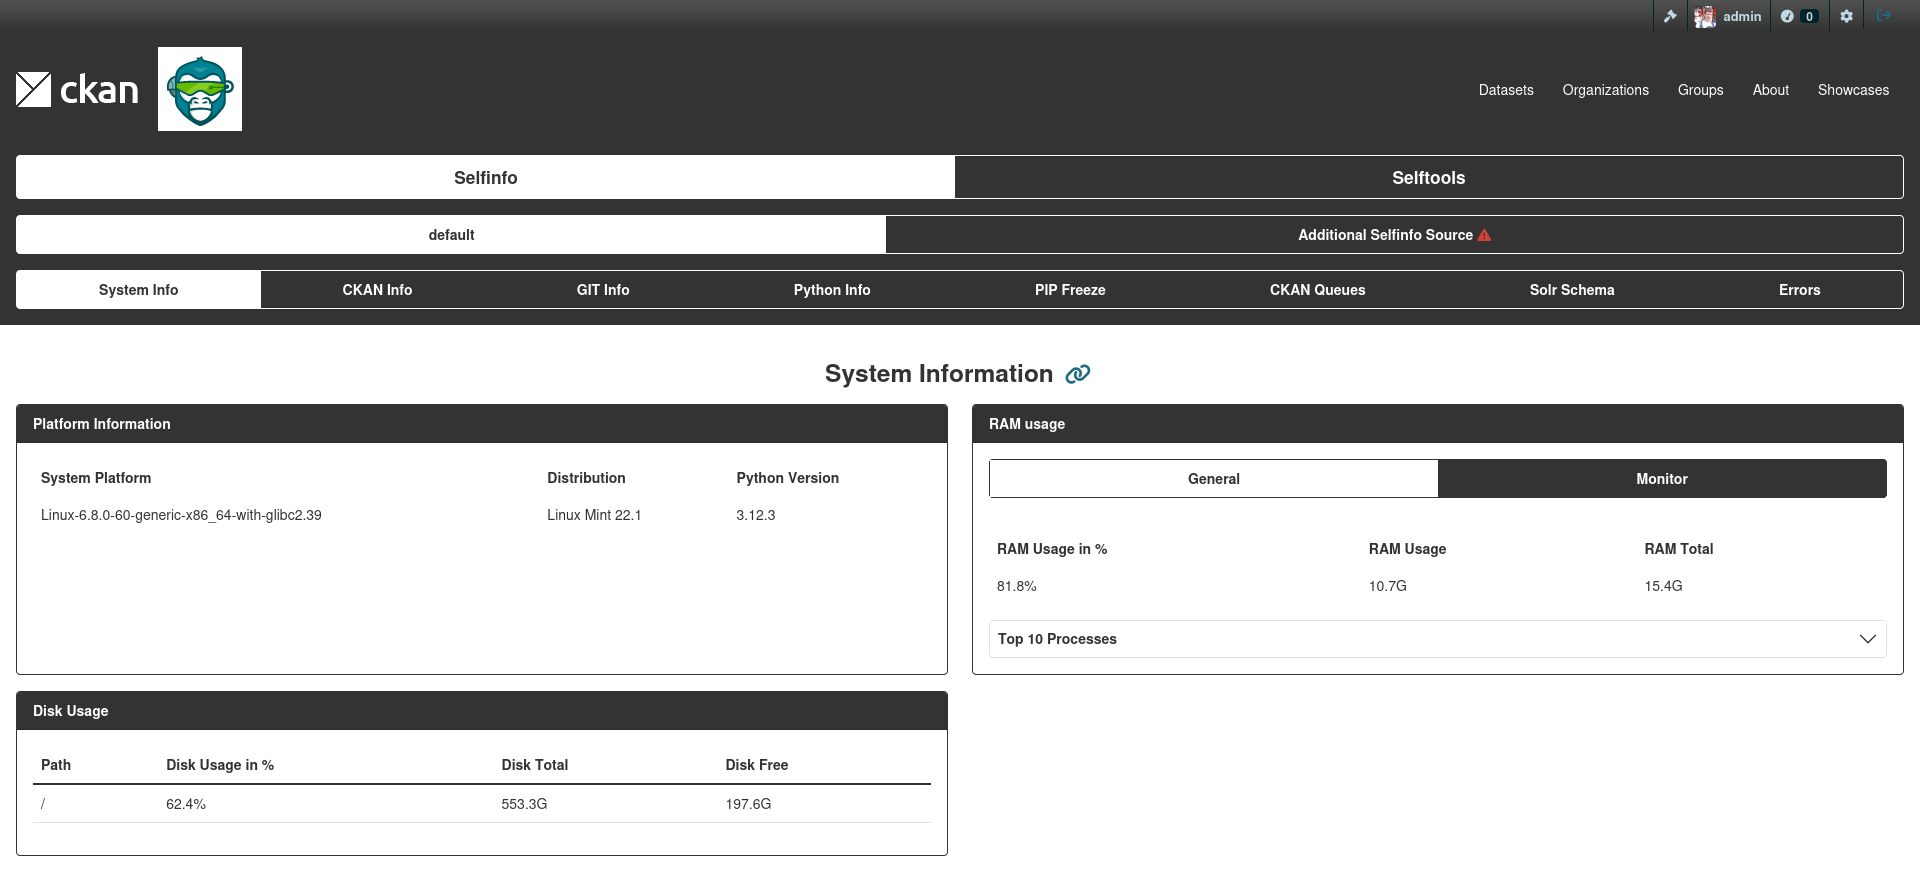
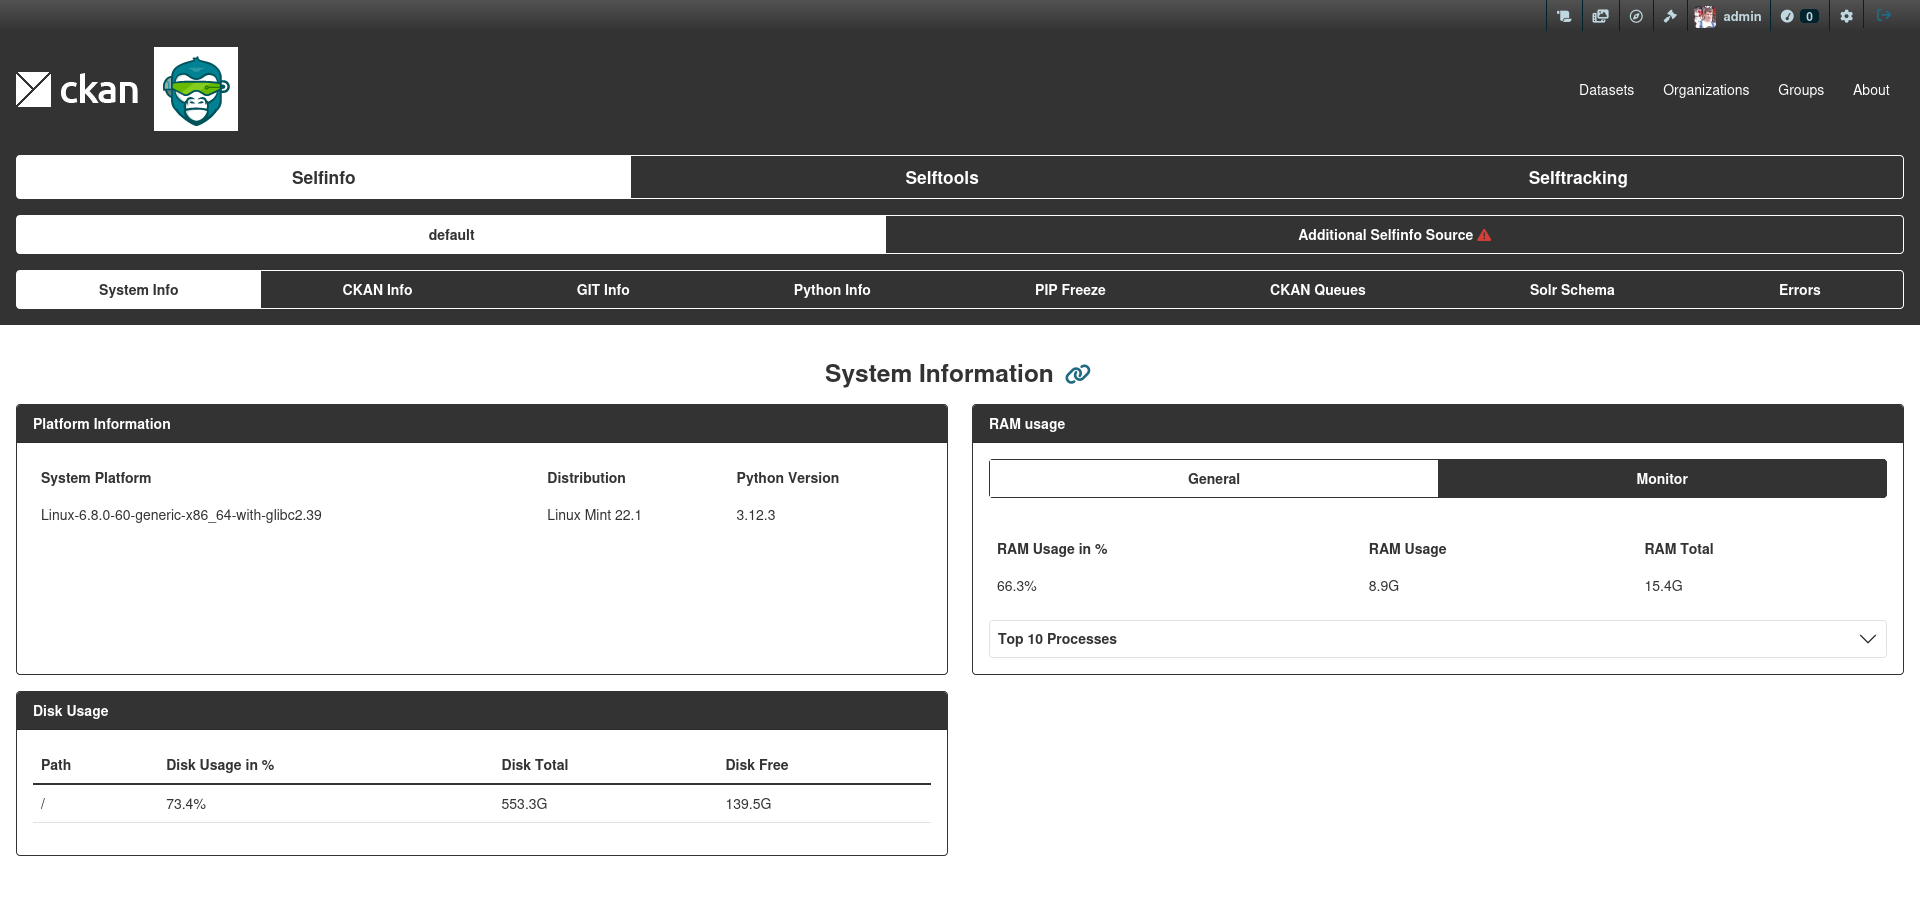
update documentation and add minor information

diff --git a/ckanext/selfinfo/templates/selfinfo/snippets/self_system_info.html b/ckanext/selfinfo/templates/selfinfo/snippets/self_system_info.html
@@ -28,7 +28,7 @@
                                 <tr>
                                     <td>{{ data.platform_info.platform }}</td>
                                     <td>{{ data.platform_info.distro }}</td>
-                                    <td>{{ data.platform_info.python_version }}</td>
+                                    <td>{{ data.platform_info.python_version }} {% if data.platform_info.python_prefix %} ({{data.platform_info.python_prefix}}) {% endif %}</td>
                                 </tr>
                             </tbody>
                         </table>

diff --git a/ckanext/selfinfo/utils.py b/ckanext/selfinfo/utils.py
@@ -1,6 +1,7 @@
 from __future__ import annotations
 
 import os
+import sys
 from typing import Any, Mapping, Optional, MutableMapping
 import requests
 import psutil
@@ -199,6 +200,7 @@ def get_platform_info() -> dict[str, Any]:
         "distro": distro.name() + " " + distro.version(),
         "python_version": platform.python_version(),
         "platform": platform.platform(),
+        "python_prefix": sys.prefix,
     }
 
 

diff --git a/docs/selftools/overview.md b/docs/selftools/overview.md
@@ -1,5 +1,7 @@
 ## Selftools
 
+![Selftracking Screen](../assets/selftools_main.png)
+
 This plugin suggested to be an addition to Selfinfo tools, but considered to be moved to a separate plugin, due to difference in main idea and purpouse of Selfinfo.
 
 Unlike Selfinfo, where you retrieve information about CKAN setup, Selftools provides an actual data that stored for CKAN and be able to do manipulations with it like create/update/delete operations.
